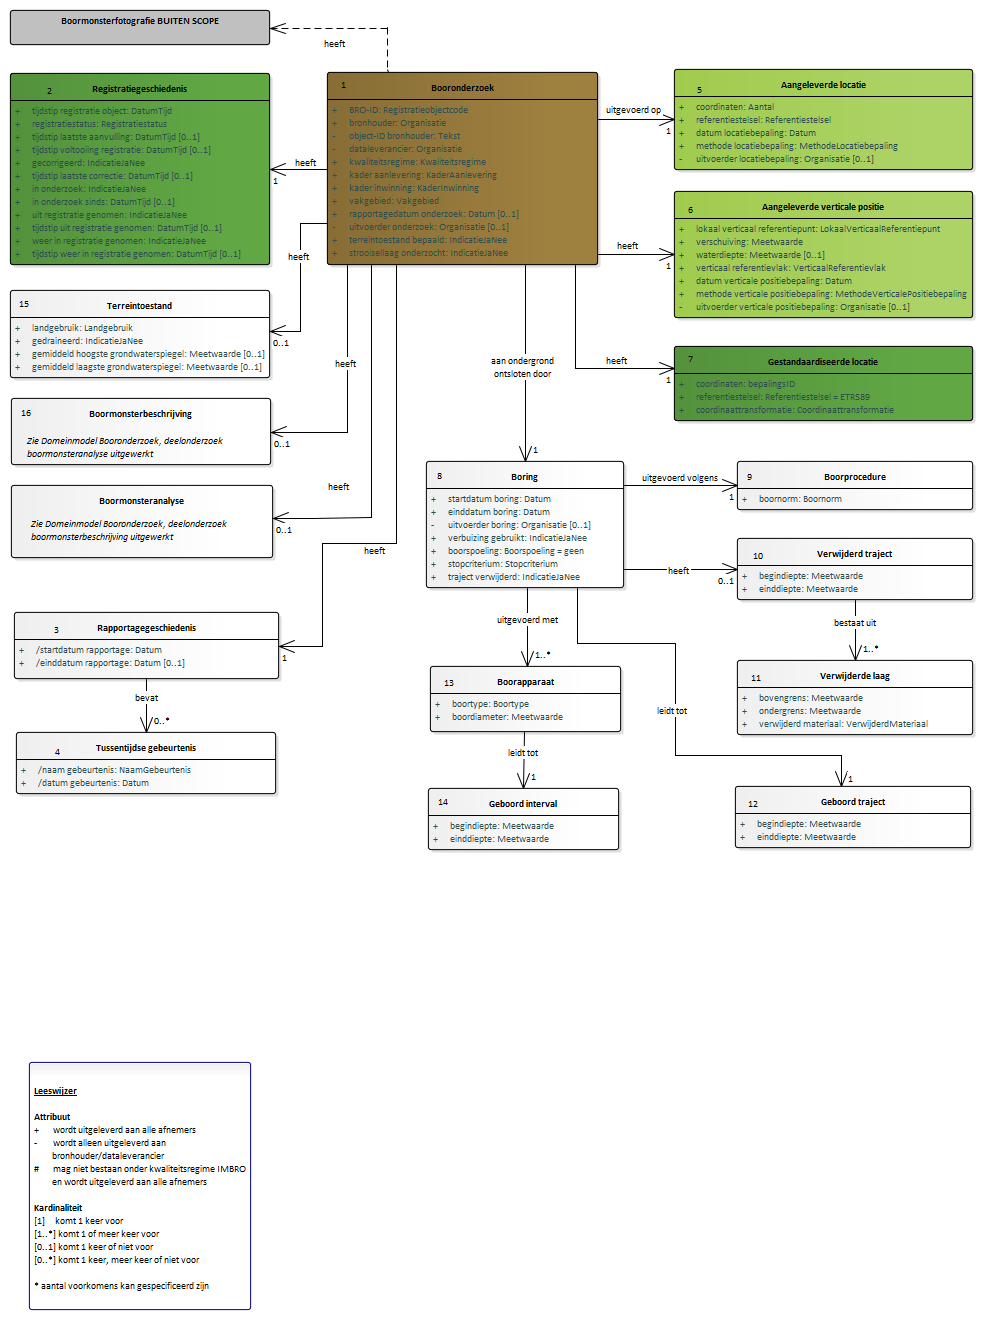
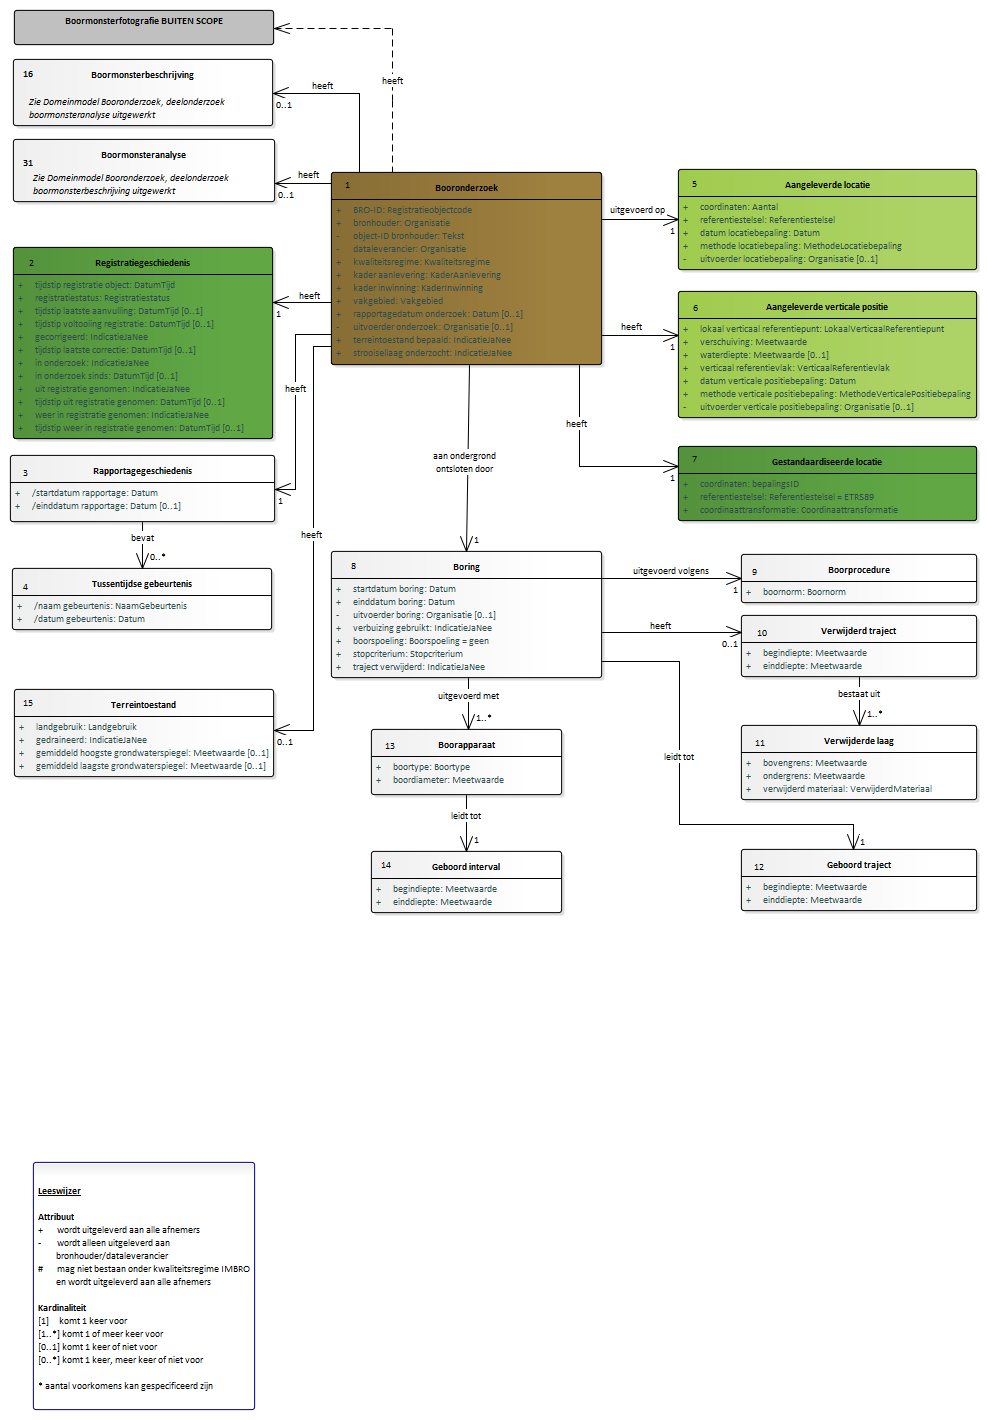
Conceptualmodel-BHR-Pconceptueel-MIM-1.9127november2019-1-20200214-20200303-162639

diff --git a/data/BHR-P-cat.msword.html b/data/BHR-P-cat.msword.html
@@ -13,7 +13,7 @@
    <body>
       <p>Conceptual model/BHR-P conceptueel - MIM/20200214</p>
       <p>Imvertor: 1.59.2</p>
-      <p>Model release: Conceptualmodel-BHR-Pconceptueel-MIM-1.9127november2019-1-20200214-20200303-151548</p>
+      <p>Model release: Conceptualmodel-BHR-Pconceptueel-MIM-1.9127november2019-1-20200214-20200303-162639</p>
       <hr>
       <section>
          <h1>Artikel 1 Definitie van registratieobject, entiteiten en attributen</h1>
@@ -70,20 +70,20 @@
             <h2>Het domeinmodel</h2>
             <section id="">
                <div class="imageinfo overview"><img src="Images/EAID_1C3500F1_E5BB_47e3_9CE1_BB98873D797A.png" usemap="#imagemap-EAID_1C3500F1_E5BB_47e3_9CE1_BB98873D797A" alt="Diagram "><map name="imagemap-EAID_1C3500F1_E5BB_47e3_9CE1_BB98873D797A">
-                     <area shape="rect" alt="Bodemclassificatie" coords="743,10,1042,244" href="#graph_EAID_CFE14268_F08B_4a20_BB74_3FEA8BBA0438">
-                     <area shape="rect" alt="Zuurgraad bodemlaag" coords="686,431,819,511" href="#graph_EAID_20864613_7F9B_4610_9180_7A919D60C45B">
-                     <area shape="rect" alt="Verdeling fijne fractie" coords="956,782,1093,862" href="#graph_EAID_60B04447_7B86_410e_B20F_D3CD115886D1">
-                     <area shape="rect" alt="Onvolledige fractiespecificatie" coords="701,881,899,969" href="#graph_EAID_2882FB1B_C7C2_467c_AEBB_238330EEBFC0">
-                     <area shape="rect" alt="Fractieverdeling" coords="698,778,901,866" href="#graph_EAID_EF53B14C_3668_4ef9_934A_1FD39F3E0662">
-                     <area shape="rect" alt="Grondsoort" coords="336,778,630,969" href="#graph_EAID_6335A71B_82D0_48a7_B08B_E14E5233FFFC">
-                     <area shape="rect" alt="Laagcomponent" coords="336,600,630,701" href="#graph_EAID_972B648E_F4A1_4a70_92B9_3383A5DB7706">
-                     <area shape="rect" alt="Vast gesteentelaag" coords="873,434,1093,522" href="#graph_EAID_53169F7B_05E8_438f_A558_2A98EA6E3BDE">
-                     <area shape="rect" alt="Bodemlaag" coords="336,434,630,522" href="#graph_EAID_BAEFD725_0B6B_4084_AB08_BC42F75343BC">
-                     <area shape="rect" alt="Bijzonderheid onderin" coords="743,298,1042,359" href="#graph_EAID_4B2108B5_2549_4222_B1C3_253785E10046">
-                     <area shape="rect" alt="Strooisellaag" coords="10,434,283,533" href="#graph_EAID_53792607_43A9_402c_BCFF_E9A10589D199">
-                     <area shape="rect" alt="Boorprofiel" coords="342,227,632,341" href="#graph_EAID_E066634E_A30B_4f31_9447_9ADBF0419CB4">
-                     <area shape="rect" alt="Boormonsterbeschrijving" coords="339,10,633,125" href="#graph_EAID_697C344A_A1CE_4e19_A1E8_D608CAB8F0B2">
-                     <area shape="rect" alt="Zuurgraad strooisellaag" coords="50,620,244,682" href="#graph_EAID_50D04CCB_A0D6_4ec1_85EB_B23EC6D99A02"></map><p><b>Domeinmodel BRO Bodemkundige boormonsterbeschrijving</b></p>
+                     <area shape="rect" alt="Bodemclassificatie" coords="737,11,1036,245" href="#graph_EAID_CFE14268_F08B_4a20_BB74_3FEA8BBA0438">
+                     <area shape="rect" alt="Zuurgraad bodemlaag" coords="657,423,819,485" href="#graph_EAID_20864613_7F9B_4610_9180_7A919D60C45B">
+                     <area shape="rect" alt="Verdeling fijne fractie" coords="900,724,1037,804" href="#graph_EAID_60B04447_7B86_410e_B20F_D3CD115886D1">
+                     <area shape="rect" alt="Onvolledige fractiespecificatie" coords="657,822,860,912" href="#graph_EAID_2882FB1B_C7C2_467c_AEBB_238330EEBFC0">
+                     <area shape="rect" alt="Fractieverdeling" coords="657,720,860,808" href="#graph_EAID_EF53B14C_3668_4ef9_934A_1FD39F3E0662">
+                     <area shape="rect" alt="Grondsoort" coords="318,721,612,912" href="#graph_EAID_6335A71B_82D0_48a7_B08B_E14E5233FFFC">
+                     <area shape="rect" alt="Laagcomponent" coords="318,560,612,661" href="#graph_EAID_972B648E_F4A1_4a70_92B9_3383A5DB7706">
+                     <area shape="rect" alt="Vast gesteentelaag" coords="738,518,1037,606" href="#graph_EAID_53169F7B_05E8_438f_A558_2A98EA6E3BDE">
+                     <area shape="rect" alt="Bodemlaag" coords="317,411,613,499" href="#graph_EAID_BAEFD725_0B6B_4084_AB08_BC42F75343BC">
+                     <area shape="rect" alt="Bijzonderheid onderin" coords="737,299,1036,360" href="#graph_EAID_4B2108B5_2549_4222_B1C3_253785E10046">
+                     <area shape="rect" alt="Strooisellaag" coords="10,411,283,510" href="#graph_EAID_53792607_43A9_402c_BCFF_E9A10589D199">
+                     <area shape="rect" alt="Boorprofiel" coords="317,190,614,304" href="#graph_EAID_E066634E_A30B_4f31_9447_9ADBF0419CB4">
+                     <area shape="rect" alt="Boormonsterbeschrijving" coords="317,10,611,125" href="#graph_EAID_697C344A_A1CE_4e19_A1E8_D608CAB8F0B2">
+                     <area shape="rect" alt="Zuurgraad strooisellaag" coords="57,560,237,624" href="#graph_EAID_50D04CCB_A0D6_4ec1_85EB_B23EC6D99A02"></map><p><b>Domeinmodel BRO Bodemkundige boormonsterbeschrijving</b></p>
                </div>
                <div class="imageinfo overview"><img src="Images/EAID_6383BFB7_B0C0_44d9_9C7F_929703659479.png" usemap="#imagemap-EAID_6383BFB7_B0C0_44d9_9C7F_929703659479" alt="Diagram "><map name="imagemap-EAID_6383BFB7_B0C0_44d9_9C7F_929703659479">
                      <area shape="rect" alt="Bepaling waterretentie stapsgewijs" coords="12,733,253,964" href="#graph_EAID_41CDAA8E_37BA_4dbe_843B_C18C720DC286">
@@ -96,23 +96,23 @@
                      <area shape="rect" alt="Onderzocht interval" coords="255,180,481,308" href="#graph_EAID_E03DABD7_D5A7_43b1_8E45_22FE722A3256"></map><p><b>Bodemkundige boormonsteranalyse deel 1</b></p>
                </div>
                <div class="imageinfo overview"><img src="Images/EAID_D6588CC3_0108_4b72_8419_F2C7022F9A9E.png" usemap="#imagemap-EAID_D6588CC3_0108_4b72_8419_F2C7022F9A9E" alt="Diagram "><map name="imagemap-EAID_D6588CC3_0108_4b72_8419_F2C7022F9A9E">
-                     <area shape="rect" alt="Gestandaardiseerde locatie" coords="674,346,973,421" href="#graph_EAID_4D17BE34_0DFD_4a20_9A39_F437E781D80F">
-                     <area shape="rect" alt="Aangeleverde verticale positie" coords="674,191,973,318" href="#graph_EAID_5B6EEAEE_FAAF_4ab9_9D33_709559A9E297">
-                     <area shape="rect" alt="Aangeleverde locatie" coords="674,69,973,170" href="#graph_EAID_C81072B6_E99D_435f_9E4C_B1D5FED530D4">
-                     <area shape="rect" alt="Geboord traject" coords="735,786,971,848" href="#graph_EAID_BCE4FB50_EC8B_4ebc_BA2F_AED708915459">
-                     <area shape="rect" alt="Verwijderde laag" coords="737,660,973,735" href="#graph_EAID_4F931859_A209_48c8_95B4_EF48947342D4">
-                     <area shape="rect" alt="Verwijderd traject" coords="737,538,973,600" href="#graph_EAID_9CAAE4E0_1030_4145_8BA6_E7E82C1A81D3">
-                     <area shape="rect" alt="Boorprocedure" coords="737,461,973,510" href="#graph_EAID_BC5BEC9E_1CD9_400e_931D_D3328E315CAA">
-                     <area shape="rect" alt="Terreintoestand" coords="10,290,270,378" href="#graph_EAID_AF1FFED2_C283_48d3_BB6D_22F3F876045D">
-                     <area shape="rect" alt="Geboord interval" coords="428,788,619,850" href="#graph_EAID_7A51F6B2_4675_47d0_849C_BCE1853C65CF">
-                     <area shape="rect" alt="Boorapparaat" coords="430,666,621,732" href="#graph_EAID_F4D931C9_4668_4a29_94E7_347B9C7D4AFC">
-                     <area shape="rect" alt="Boring" coords="426,461,624,588" href="#graph_EAID_EEB4A074_34DE_4020_8995_D8081DCBBB6C">
-                     <area shape="rect" alt="Tussentijdse gebeurtenis" coords="16,732,276,794" href="#graph_EAID_648ED0D8_FACD_42e6_9C8A_648C6F5E0DA8">
-                     <area shape="rect" alt="Rapportagegeschiedenis" coords="14,612,279,679" href="#graph_EAID_6C31CE0B_20BC_4ca1_9BFA_C6D0EF8B7476">
-                     <area shape="rect" alt="Boormonsterbeschrijving" coords="11,398,271,465" href="#graph_EAID_697C344A_A1CE_4e19_A1E8_D608CAB8F0B2">
-                     <area shape="rect" alt="Registratiegeschiedenis" coords="10,73,270,265" href="#graph_EAID_8505883D_9F95_4151_9381_E70B2B7F19DE">
-                     <area shape="rect" alt="Boormonsteranalyse" coords="11,485,273,558" href="#graph_EAID_C497D0C8_A7FC_4280_82C3_3C866CAA23AB">
-                     <area shape="rect" alt="Booronderzoek" coords="327,72,598,265" href="#graph_EAID_767F438F_1014_47bc_BBDC_98606932693D"></map><p><b>Domeinmodel BRO Booronderzoek</b></p>
+                     <area shape="rect" alt="Gestandaardiseerde locatie" coords="678,446,977,521" href="#graph_EAID_4D17BE34_0DFD_4a20_9A39_F437E781D80F">
+                     <area shape="rect" alt="Aangeleverde verticale positie" coords="678,291,977,418" href="#graph_EAID_5B6EEAEE_FAAF_4ab9_9D33_709559A9E297">
+                     <area shape="rect" alt="Aangeleverde locatie" coords="678,169,977,270" href="#graph_EAID_C81072B6_E99D_435f_9E4C_B1D5FED530D4">
+                     <area shape="rect" alt="Geboord traject" coords="741,849,977,911" href="#graph_EAID_BCE4FB50_EC8B_4ebc_BA2F_AED708915459">
+                     <area shape="rect" alt="Verwijderde laag" coords="741,725,977,800" href="#graph_EAID_4F931859_A209_48c8_95B4_EF48947342D4">
+                     <area shape="rect" alt="Verwijderd traject" coords="741,615,977,677" href="#graph_EAID_9CAAE4E0_1030_4145_8BA6_E7E82C1A81D3">
+                     <area shape="rect" alt="Boorprocedure" coords="741,554,977,603" href="#graph_EAID_BC5BEC9E_1CD9_400e_931D_D3328E315CAA">
+                     <area shape="rect" alt="Terreintoestand" coords="14,689,274,777" href="#graph_EAID_AF1FFED2_C283_48d3_BB6D_22F3F876045D">
+                     <area shape="rect" alt="Geboord interval" coords="371,851,562,913" href="#graph_EAID_7A51F6B2_4675_47d0_849C_BCE1853C65CF">
+                     <area shape="rect" alt="Boorapparaat" coords="371,729,562,795" href="#graph_EAID_F4D931C9_4668_4a29_94E7_347B9C7D4AFC">
+                     <area shape="rect" alt="Boring" coords="331,551,602,678" href="#graph_EAID_EEB4A074_34DE_4020_8995_D8081DCBBB6C">
+                     <area shape="rect" alt="Tussentijdse gebeurtenis" coords="12,568,272,630" href="#graph_EAID_648ED0D8_FACD_42e6_9C8A_648C6F5E0DA8">
+                     <area shape="rect" alt="Rapportagegeschiedenis" coords="10,455,275,522" href="#graph_EAID_6C31CE0B_20BC_4ca1_9BFA_C6D0EF8B7476">
+                     <area shape="rect" alt="Boormonsterbeschrijving" coords="13,59,273,126" href="#graph_EAID_697C344A_A1CE_4e19_A1E8_D608CAB8F0B2">
+                     <area shape="rect" alt="Registratiegeschiedenis" coords="13,247,273,439" href="#graph_EAID_8505883D_9F95_4151_9381_E70B2B7F19DE">
+                     <area shape="rect" alt="Boormonsteranalyse" coords="13,139,275,202" href="#graph_EAID_C497D0C8_A7FC_4280_82C3_3C866CAA23AB">
+                     <area shape="rect" alt="Booronderzoek" coords="331,172,602,365" href="#graph_EAID_767F438F_1014_47bc_BBDC_98606932693D"></map><p><b>Domeinmodel BRO Booronderzoek</b></p>
                </div>
             </section>
          </section>
